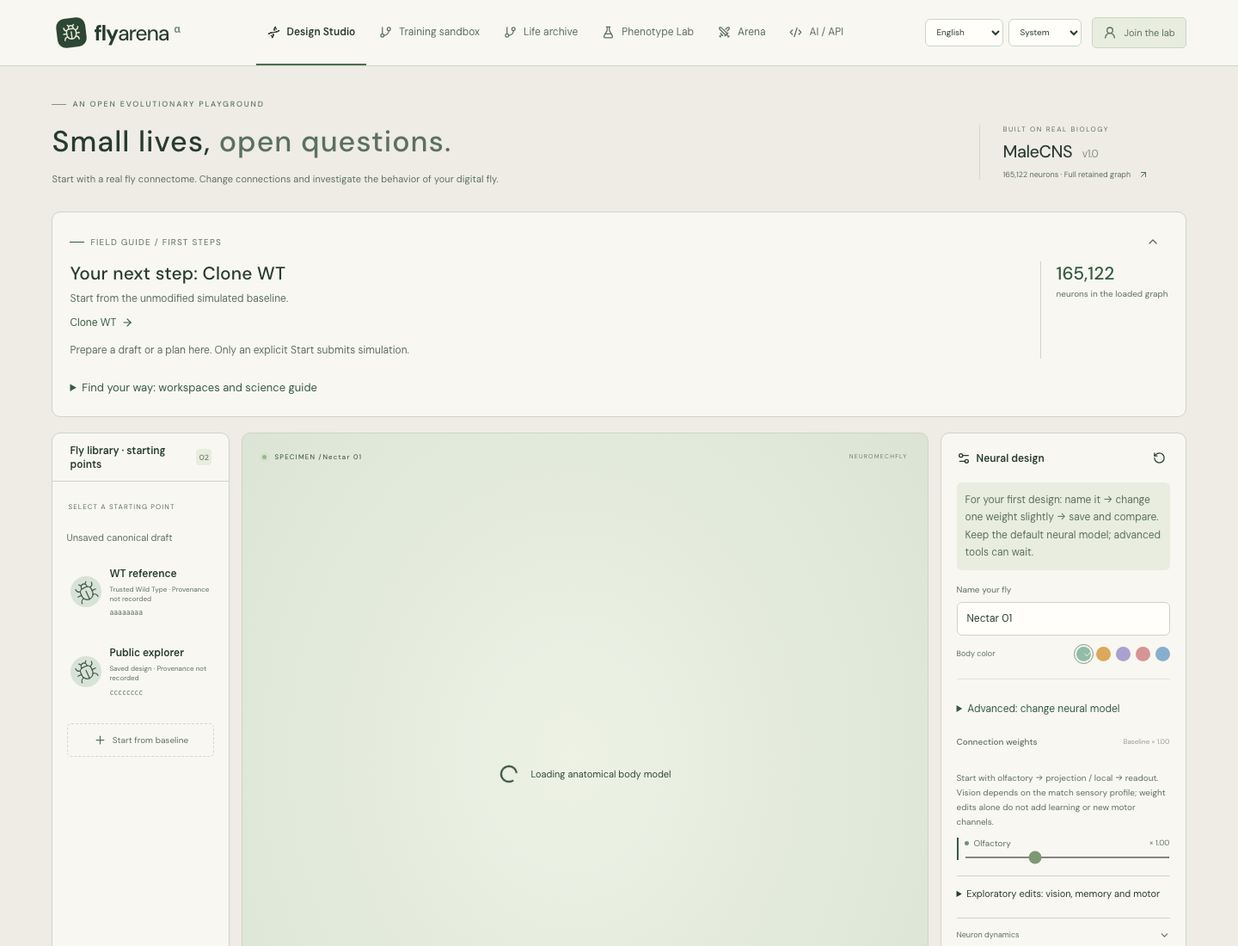
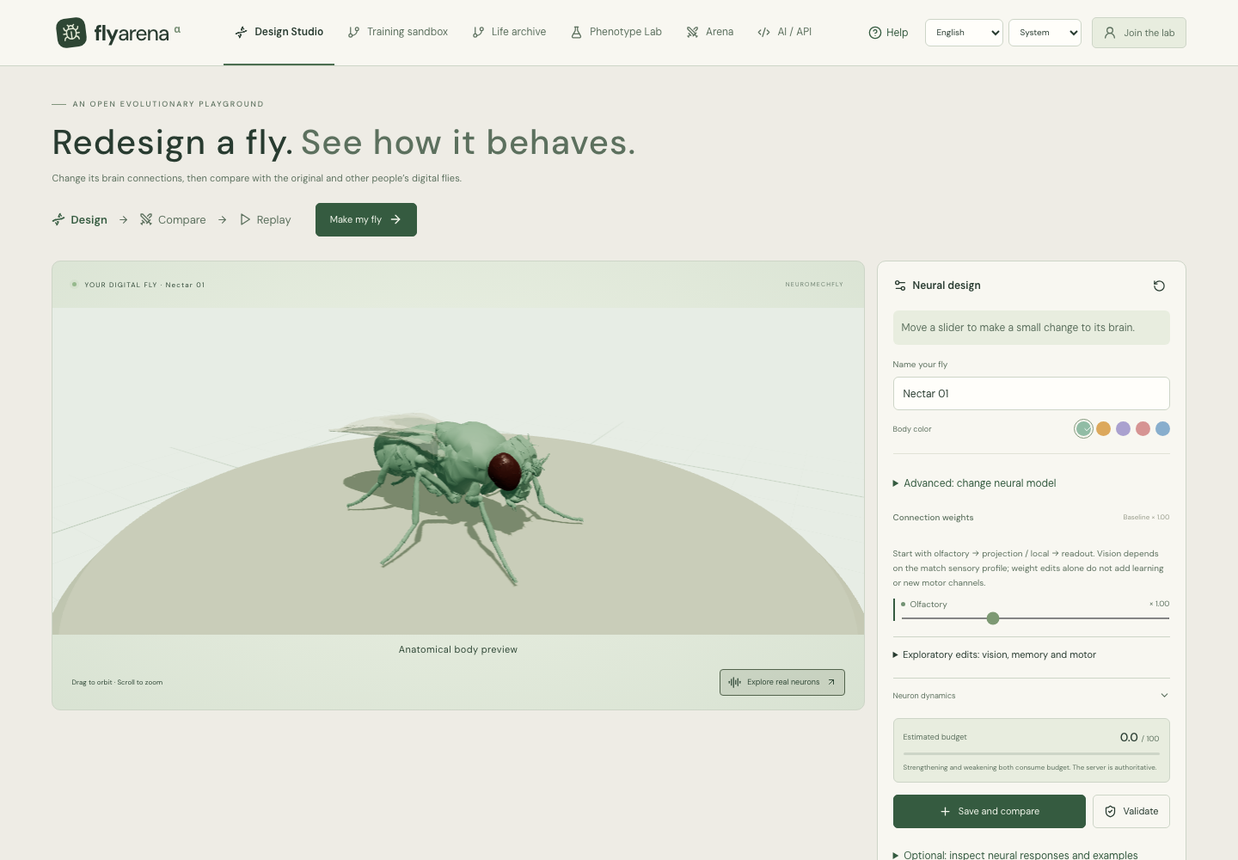
Lead with the fly and move the full guide into Help

diff --git a/web/src/App.tsx b/web/src/App.tsx
@@ -8,6 +8,8 @@ import {BrainModelPicker} from './features/design/BrainModelPicker'
 import {LifeLedger} from './features/life/LifeLedger'
 import {guideSubject,baselineComparison,hasRecordedEvolution,useGuideEvidence} from './features/guide/nextAction'
 import {PlaygroundGuide} from './features/guide/PlaygroundGuide'
+import {GuideHelpDialog} from './features/guide/GuideHelpDialog'
+import './features/design/designLanding.css'
 import {matchingWildType} from './features/arena/wildtype'
 import {TrainingSandbox} from './features/training/TrainingSandbox'
 import {SavedFlyCard} from './features/design/SavedFlyCard'
@@ -17,7 +19,7 @@ import {ArenaFeature} from './features/arena/ArenaFeature'
 import {useReplay} from './features/arena/useReplay'
 import {selectReplayFrames} from './features/arena/replayFrames'
 import {useCallback,useEffect,useMemo,useRef,useState} from 'react'
-import {ArrowDownToLine,ArrowRight,ArrowUpRight,AudioLines,Beaker,Bug,Check,ChevronDown,Code2,Copy,Dna,ExternalLink,FlaskConical,GitBranch,Leaf,Loader2,Pause,Play,Plus,RotateCcw,Settings2,ShieldCheck,Swords,Terminal,Trophy,UserRound,X} from 'lucide-react'
+import {ArrowDownToLine,ArrowRight,ArrowUpRight,AudioLines,Beaker,Bug,Check,ChevronDown,Code2,Copy,CircleHelp,Dna,ExternalLink,FlaskConical,GitBranch,Leaf,Loader2,Pause,Play,Plus,RotateCcw,Settings2,ShieldCheck,Swords,Terminal,Trophy,UserRound,X} from 'lucide-react'
 import {api,setCsrfToken,newRequestKey} from './api'
 import {PhenotypeLab} from './features/phenotype/PhenotypeLab'
 import {AdvancedInterventions} from './features/design/AdvancedInterventions'
@@ -77,6 +79,8 @@ export default function App(){
   const [comparisonFocus,setComparisonFocus]=useState(0)
   const [comparisonOpen,setComparisonOpen]=useState(true)
   const [hasDraft,setHasDraft]=useState(false)
+  const [guideOpen,setGuideOpen]=useState(false)
+  const [editorFocus,setEditorFocus]=useState(0)
   const [identityName,setIdentityName]=useState('')
   const [invite,setInvite]=useState('')
   const [showToken,setShowToken]=useState(false)
@@ -202,13 +206,15 @@ export default function App(){
   async function validate(){if(!identity){setLogin(true);return}await action('validate',async()=>{const r=await api<Report>('/flies/validate',{method:'POST',body:JSON.stringify(spec)},identity);setReport(r);setToast(t("权重、图谱版本和变异预算验证通过。"))})}
   async function previewNeural(){if(!identity){setLogin(true);return}await action('neural-preview',async()=>{const result=await api<NeuralPreview>('/flies/preview',{method:'POST',body:JSON.stringify(spec)},identity);setNeuralPreview({data:result,specKey:JSON.stringify(spec)});setToast(t('Neural preview recorded from the retained graph.'))})}
   async function previewExample(){await action('neural-example',async()=>{const response=await fetch('/examples/neural-preview-nectar-v3.json');if(!response.ok)throw Error(locale==='zh-CN'?'刺激样本暂不可用':'Stimulus example is unavailable');const data:NeuralPreview=await response.json();if(!['neural-design-preview/v2','neural-design-preview/v3'].includes(data.schema)||!data.example)throw Error('Invalid stimulus example');setNeuralPreview({data,specKey:null})})}
-  function openSavedComparison(){setComparisonOpen(true);setTab('design');setComparisonFocus(value=>value+1)}
+  function openSavedComparison(){setGuideOpen(false);setComparisonOpen(true);setTab('design');setComparisonFocus(value=>value+1)}
   useEffect(()=>{
     if(!comparisonFocus||tab!=='design')return
     const panel=document.getElementById('comparison-content')
     panel?.scrollIntoView?.({block:'start',behavior:'smooth'});panel?.focus({preventScroll:true})
   },[comparisonFocus,tab])
-  function openEditor(){setComparisonOpen(false);setHasDraft(true);document.getElementById('fly-name')?.scrollIntoView?.({block:'center',behavior:'smooth'});document.getElementById('fly-name')?.focus({preventScroll:true})}
+  function openEditor(){setGuideOpen(false);setComparisonOpen(false);setHasDraft(true);setTab('design');setEditorFocus(value=>value+1)}
+  function startDesign(){const wt=matchingWildType(flies);if(wt)clone(wt);openEditor()}
+  useEffect(()=>{if(!editorFocus||tab!=='design')return;const field=document.getElementById('fly-name');field?.scrollIntoView?.({block:'center',behavior:'smooth'});field?.focus({preventScroll:true})},[editorFocus,tab])
   async function publish(){
     if(!identity){pendingIntent.current='save';setLogin(true);return}
     await action('publish',async()=>{
@@ -268,11 +274,11 @@ export default function App(){
     <header className="header">
       <button className="brand" onClick={()=>setTab('design')} aria-label={t("Fly Arena 首页")}><span className="brand-mark"><Bug size={22} strokeWidth={1.6}/></span><span>fly<span className="brand-light">arena</span><sup>α</sup></span></button>
       <nav>{([['design',t("设计工坊"),Dna],['train',t('Training sandbox'),GitBranch],['life',t('Life archive'),GitBranch],['lab',t("表型实验室"),FlaskConical],['arena',t("竞技场"),Swords],['code','AI / API',Code2]] as const).map(([id,label,Icon])=><button className={tab===id?'active':''} key={id} onClick={()=>setTab(id)}><Icon size={15}/>{label}</button>)}</nav>
-      <div className="header-right"><Preferences/><span className="season-badge"><span className="live-dot"/>{t("GENESIS SEASON")}</span><button className="identity-button" onClick={()=>identity?setShowToken(true):setLogin(true)}><UserRound size={16}/><span>{identity?.name||t("加入实验")}</span></button></div>
+      <div className="header-right"><button className="guide-help-trigger" onClick={()=>setGuideOpen(true)} aria-haspopup="dialog"><CircleHelp size={16}/>{locale==='zh-CN'?'帮助':'Help'}</button><Preferences/><span className="season-badge"><span className="live-dot"/>{t("GENESIS SEASON")}</span><button className="identity-button" onClick={()=>identity?setShowToken(true):setLogin(true)}><UserRound size={16}/><span>{identity?.name||t("加入实验")}</span></button></div>
     </header>
 
     <main>
-      <div className="page-heading"><div><div className="eyebrow"><span/> {t("AN OPEN EVOLUTIONARY PLAYGROUND")}</div><h1>{tab==='design'?<>{t("小小生命，")}<em>{t("无限可能。")}</em></>:tab==='life'?<>{t('Every life,')}<em>{t('a recorded journey.')}</em></>:tab==='train'?<>{t('Train a fly,')}<em>{t('grow a lineage.')}</em></>:tab==='arena'?<>{t("让你的设计，")}<em>{t("接受挑战。")}</em></>:tab==='lab'?<>{t("每次进化，")}<em>{t("都有迹可循。")}</em></>:<>{t("你的 AI，")}<em>{t("也是设计师。")}</em></>}</h1><p>{tab==='design'?t("从真实果蝇神经图谱出发。改变连接，塑造本能，创造属于你的数字果蝇。"):tab==='life'?t('Explore individuals, experiences and choices. Continue evolution from recorded evidence.'):tab==='train'?t('Choose a strategy, set a budget, and explore generations through actual competition.'):tab==='arena'?t("同一身体，同一世界。让不同的神经设计，在食物与空间的竞争中相遇。"):tab==='lab'?t("比较设计、回看行为、追踪神经活动。让下一次修改有据可依。"):t("一份 FlySpec，一套开放接口。让任何 AI 设计、评测并提交自己的果蝇。")}</p></div><div className="science-stamp"><span>{t("BUILT ON REAL BIOLOGY")}</span><strong>MaleCNS <i>v1.0</i></strong><small>{season?num(season.connectome.neuron_count):'—'} {t("neurons · Full retained graph")}<ArrowUpRight size={12}/></small></div></div>
+      <div className={'page-heading'+(tab==='design'?' design-heading':'')}><div><div className="eyebrow"><span/> {t("AN OPEN EVOLUTIONARY PLAYGROUND")}</div><h1>{tab==='design'?<>{locale==='zh-CN'?'改造一只果蝇，':'Redesign a fly.'}<em>{locale==='zh-CN'?'看看它怎么行动。':'See how it behaves.'}</em></>:tab==='life'?<>{t('Every life,')}<em>{t('a recorded journey.')}</em></>:tab==='train'?<>{t('Train a fly,')}<em>{t('grow a lineage.')}</em></>:tab==='arena'?<>{t("让你的设计，")}<em>{t("接受挑战。")}</em></>:tab==='lab'?<>{t("每次进化，")}<em>{t("都有迹可循。")}</em></>:<>{t("你的 AI，")}<em>{t("也是设计师。")}</em></>}</h1><p>{tab==='design'?(locale==='zh-CN'?'修改它的大脑连接，再与原版和其他人的数字果蝇比一比。':'Change its brain connections, then compare with the original and other people’s digital flies.'):tab==='life'?t('Explore individuals, experiences and choices. Continue evolution from recorded evidence.'):tab==='train'?t('Choose a strategy, set a budget, and explore generations through actual competition.'):tab==='arena'?t("同一身体，同一世界。让不同的神经设计，在食物与空间的竞争中相遇。"):tab==='lab'?t("比较设计、回看行为、追踪神经活动。让下一次修改有据可依。"):t("一份 FlySpec，一套开放接口。让任何 AI 设计、评测并提交自己的果蝇。")}</p>{tab==='design'&&<div className="design-heading-actions"><ol className="design-journey" aria-label={locale==='zh-CN'?'探索流程':'Your journey'}><li data-current={!guideFly||hasDraft||undefined}><Dna size={16}/>{locale==='zh-CN'?'改造':'Design'}</li><li><ArrowRight size={13}/></li><li data-current={!!guideFly&&!hasDraft||undefined}><Swords size={16}/>{locale==='zh-CN'?'对比':'Compare'}</li><li><ArrowRight size={13}/></li><li><Play size={16}/>{locale==='zh-CN'?'看回放':'Replay'}</li></ol>{(!guideFly||hasDraft)&&<button className="primary design-start-button" onClick={hasDraft?openEditor:startDesign} disabled={!season}>{hasDraft?(locale==='zh-CN'?'继续改造':'Continue designing'):(locale==='zh-CN'?'制作我的果蝇':'Make my fly')}<ArrowRight size={16}/></button>}</div>}</div><div className="science-stamp"><span>{t("BUILT ON REAL BIOLOGY")}</span><strong>MaleCNS <i>v1.0</i></strong><small>{season?num(season.connectome.neuron_count):'—'} {t("neurons · Full retained graph")}<ArrowUpRight size={12}/></small></div></div>
 
       {error&&<div className="error-banner" role="alert"><span>{error}</span><button onClick={()=>setError('')} aria-label={t("关闭错误")}><X size={16}/></button></div>}
 
@@ -280,21 +286,10 @@ export default function App(){
         {replayOrigin&&<section className="panel replay-design-origin" aria-label={locale==='zh-CN'?'回放设计来源':'Replay design source'}><div><strong>{locale==='zh-CN'?'从这份参赛大脑继续设计：':'Designing from this recorded brain: '}{replayOrigin.name}</strong><p>{locale==='zh-CN'?'当前是未保存的后代草稿。修改并保存后，先与 WT 和其他设计对比。':'This is an unsaved child draft. Edit and save it, then compare with WT and other designs.'}</p></div><button className="text-link" aria-label={locale==='zh-CN'?'回看亲代这场表现':'Revisit the parent’s match'} onClick={()=>setFocused(replayOrigin.matchId)}>{locale==='zh-CN'?'回看亲代这场表现':'Revisit the parent’s match'} →</button></section>}
 
         {guideFly&&identity&&<details id="saved-design-comparison" open={comparisonOpen} onToggle={e=>setComparisonOpen(e.currentTarget.open)}><summary>{locale==='zh-CN'?'已保存版本的对比与结果':'Saved design: comparison and results'} · {guideFly.name}</summary><div tabIndex={-1} id="comparison-content"><FirstComparison key={identity.id+guideFly.id} subject={guideFly} flies={availableFlies} maps={maps} season={season} identity={identity} onEdit={openEditor} onArena={(series,match)=>{setSelected(guideFly.id);navigate('arena','',match,series,'');setPlay(false)}}/></div></details>}
-        <PlaygroundGuide hasDraft={hasDraft} referenceOnly={!!guideFly&&comparisonOpen} neuronCount={season?.connectome.neuron_count}
-          canCloneWT={!!matchingWildType(flies)} hasSavedDesign={!!guideFly} subjectName={hasDraft?name:guideFly?.name} canCompare={!!guideFly} hasCompared={!!baselineComparison(availableFlies,guideFly,guideEvidence.record)} hasEvolved={hasRecordedEvolution(guideEvidence.record,guideFly)} evidenceError={guideEvidence.error}
-          onCompare={openSavedComparison}
-          onDesign={openEditor}
-          onCloneWT={()=>{const wt=matchingWildType(flies);if(wt){clone(wt);setToast(locale==='zh-CN'?'已复制 WT 为草稿。命名、做一个小改动，再保存并对比。':'WT copied into a draft. Name it, make one small change, then save and compare.');document.getElementById('fly-name')?.focus()}}}
-          onTrain={()=>{if(guideFly)setSelected(guideFly.id);navigate('train',experimentId,'','')}} onArena={()=>{if(guideFly)setSelected(guideFly.id);setMode('contest');navigate('arena',experimentId,'','');setPlay(false)}}
-          onAI={()=>{setJsonEditor(JSON.stringify(spec,null,2));setTab('code')}}/>
-        <div className="design-workspace">
-          <aside className="collection panel"><div className="panel-heading"><span>{locale==='zh-CN'?'果蝇库 · 选择起点':'Fly library · starting points'}</span><span className="count">{flies.length.toString().padStart(2,'0')}</span></div><div className="tiny-label">{t("SELECT A STARTING POINT")}</div><p className="draft-status">{parentId?t('Unsaved draft from parent')+': '+parentId:t('Unsaved canonical draft')}</p>
-            <div className="fly-list">{flies.slice(0,12).map(f=><SavedFlyCard key={f.id} fly={f} viewer={identity?.id} selected={parentId===f.id} onClone={clone}/>)}</div>
-            <button className="new-fly" onClick={()=>{setHasDraft(true);setComparisonOpen(false);setReplayOrigin(null);setScales(defaultScales());setTau(1);setThreshold(0);setName('Untitled 01');setSelected('');setParentId(null);setBaseSpec({});setInterventions([]);setEdgeDeltas([]);setReport(null);setToast(t("已恢复基线参数，为新设计取个名字吧。"))}}><Plus size={15}/>{t("从原型开始设计")}</button>
-            <div className="collection-footer"><GitBranch size={18}/><strong>{t("进化，有迹可循")}</strong><p>{t("每个设计都保留图谱来源、父代和不可变的权重版本。")}</p><button onClick={()=>setTab('train')}>{t("Training sandbox")}<ArrowRight size={14}/></button></div>
-          </aside>
+        <div className={'design-workspace design-workspace--focused'+(!hasDraft?' design-workspace--preview':'')}>
 
-          <section className="specimen-panel"><div className="specimen-top"><span><span className="live-dot"/> {t("SPECIMEN /")}{name||t('NEW DESIGN')}</span><span>NEUROMECHFLY</span></div>
+
+          <section className="specimen-panel"><div className="specimen-top"><span><span className="live-dot"/> {locale==='zh-CN'?'你的数字果蝇':'YOUR DIGITAL FLY'} · {name||t('NEW DESIGN')}</span><span>NEUROMECHFLY</span></div>
             <div className="specimen-canvas">{preview?<ArenaCanvas preview={preview} color={color} design/>:<div className="canvas-loading"><Loader2 className="spin"/><span>{t("正在载入真实身体模型")}</span></div>}</div>
             <div className="specimen-label"><span className="italic-label">Drosophila melanogaster</span><small>{t("黑腹果蝇 · 解剖模型预览")}</small></div>
             <div className="specimen-controls"><span>{t("拖动旋转 · 滚轮缩放")}</span><button onClick={()=>{setInspectOpen(true);api<typeof inspect>('/connectome/neurons?circuit='+inspectCircuit).then(setInspect).catch(e=>setError(e.message))}}><AudioLines size={15}/>{t("探索真实神经元")}<ArrowUpRight size={12}/></button></div>
@@ -302,11 +297,11 @@ export default function App(){
           </section>
 
           <aside className="editor panel" onChange={()=>setHasDraft(true)}><div className="panel-heading"><span><Settings2 size={16}/> {t("神经设计")}</span><button className="icon-button" title={t("重置参数")} onClick={()=>{setScales(defaultScales());setTau(1);setThreshold(0);setInterventions([]);setEdgeDeltas([]);setReport(null)}}><RotateCcw size={15}/></button></div>
-            <p className="editor-first-step">{locale==='zh-CN'?'第一次只需：命名 → 小幅修改一个权重 → 保存并对比。先保留默认神经模型；下方高级工具可稍后探索。':'For your first design: name it → change one weight slightly → save and compare. Keep the default neural model; advanced tools can wait.'}</p>
+            <p className="editor-first-step">{locale==='zh-CN'?'拖动一个滑块，给大脑做个小改动。':'Move a slider to make a small change to its brain.'}</p>
             <label className="field-label" htmlFor="fly-name">{t("给你的果蝇命名")}</label><input id="fly-name" value={name} onChange={e=>setName(e.target.value)} maxLength={64}/>
-            <div className="color-row"><span>{t("个体标记")}</span><div>{Object.entries(colors).map(([key,value])=><button key={key} title={t(key)} aria-label={t("选择 ")+t(key)+t(" 配色")} className={color===key?'chosen':''} style={{background:value}} onClick={()=>setColor(key)}>{color===key&&<Check size={11}/>}</button>)}</div></div>
+            <div className="color-row"><span>{t("个体标记")}</span><div>{Object.entries(colors).map(([key,value])=><button key={key} title={t(key)} aria-label={t("选择 ")+t(key)+t(" 配色")} className={color===key?'chosen':''} style={{background:value}} onClick={()=>{setHasDraft(true);setColor(key)}}>{color===key&&<Check size={11}/>}</button>)}</div></div>
             <div className="section-divider"/>
-            <details className="design-extra"><summary>{locale==='zh-CN'?'高级：更换神经模型':'Advanced: change neural model'}</summary><BrainModelPicker value={spec.model_profile} onChange={model=>{setBaseSpec(old=>({...old,model_profile:model}));setReport(null)}}/></details>
+            <details className="design-extra"><summary>{locale==='zh-CN'?'高级：更换神经模型':'Advanced: change neural model'}</summary><BrainModelPicker value={spec.model_profile} onChange={model=>{setHasDraft(true);setBaseSpec(old=>({...old,model_profile:model}));setReport(null)}}/></details>
             <div className="controls-caption"><strong>{t("连接权重")}</strong><span>{t("原型 × 1.00")}</span></div>
             <p className="capability-note">{t('Start with olfactory → projection / local → readout. Vision depends on the match sensory profile; weight edits alone do not add learning or new motor channels.')}</p><div className="sliders">{season?.connectome.circuits.filter(c=>!['visual','memory','motor'].includes(c.id)).map(c=><label key={c.id} className={'slider-control '+(['visual','memory','motor'].includes(c.id)?'exploratory':'primary-control')}><span><span className="circuit-dot" style={{background:c.color}}/>{t(c.label)}<small>× {scales[c.id]?.toFixed(2)}</small></span><input aria-label={t(c.label)+' '+t('Weight')} type="range" min="0.5" max="2" step=".01" value={scales[c.id]??1} onChange={e=>{setScales(s=>({...s,[c.id]:Number(e.target.value)}));setReport(null)}}/></label>)}</div><details className="exploratory-controls"><summary>{t('Exploratory edits: vision, memory and motor')}</summary><p>{t('Experimental visual input requires a compatible sensory profile. Memory and motor edits remain exploratory.')}</p><div className="sliders">{season?.connectome.circuits.filter(c=>['visual','memory','motor'].includes(c.id)).map(c=><label key={c.id} className={'slider-control '+(['visual','memory','motor'].includes(c.id)?'exploratory':'primary-control')}><span><span className="circuit-dot" style={{background:c.color}}/>{t(c.label)}<small>× {scales[c.id]?.toFixed(2)}</small></span><input aria-label={t(c.label)+' '+t('Weight')} type="range" min="0.5" max="2" step=".01" value={scales[c.id]??1} onChange={e=>{setScales(s=>({...s,[c.id]:Number(e.target.value)}));setReport(null)}}/></label>)}</div></details>
             <details className="intrinsic"><summary>{t("神经元动力学")}<ChevronDown size={13}/></summary><label>{t("膜时间常数")}<b>× {tau.toFixed(2)}</b><input aria-label={t("膜时间常数")} type="range" min=".8" max="1.2" step=".01" value={tau} onChange={e=>{setTau(+e.target.value);setReport(null)}}/></label><label>{t("发放阈值变化")}<b>{threshold>0?'+':''}{threshold.toFixed(1)} {t("mV")}</b><input aria-label={t("发放阈值")} type="range" min="-1" max="1" step=".1" value={threshold} onChange={e=>{setThreshold(+e.target.value);setReport(null)}}/></label></details>
@@ -314,6 +309,13 @@ export default function App(){
             <div className="editor-actions"><button className="primary" onClick={()=>publish()} disabled={!!busy||!season}>{busy==='publish'?<Loader2 className="spin" size={15}/>:<Plus size={15}/>}{locale==='zh-CN'?'保存并对比':'Save and compare'}</button><button className="secondary" onClick={validate} disabled={!!busy}>{busy==='validate'?<Loader2 className="spin" size={15}/>:<ShieldCheck size={15}/>}{t("验证")}</button></div><details className="design-extra"><summary>{locale==='zh-CN'?'可选：检查神经响应与刺激样本':'Optional: inspect neural responses and examples'}</summary><div className="editor-actions"><button className="secondary" onClick={previewNeural} disabled={!!busy||!season}>{busy==='neural-preview'?<Loader2 className="spin" size={15}/>:<AudioLines size={15}/>}{t('Preview neural response')}</button><button className="secondary" onClick={previewExample} disabled={!!busy}>{busy==='neural-example'?<Loader2 className="spin" size={15}/>:<Beaker size={15}/>} {locale==='zh-CN'?'查看真实刺激样本':'View recorded stimulus example'}</button></div></details>
           </aside>
         </div>
+        <details className="design-library"><summary>{locale==='zh-CN'?'从其他果蝇开始改造':'Start from another fly'}<span>{flies.length} {locale==='zh-CN'?'个设计':'designs'}</span></summary>
+          <aside className="collection panel"><div className="panel-heading"><span>{locale==='zh-CN'?'果蝇库 · 选择起点':'Fly library · starting points'}</span><span className="count">{flies.length.toString().padStart(2,'0')}</span></div><div className="tiny-label">{t("SELECT A STARTING POINT")}</div><p className="draft-status">{parentId?t('Unsaved draft from parent')+': '+parentId:t('Unsaved canonical draft')}</p>
+            <div className="fly-list">{flies.slice(0,12).map(f=><SavedFlyCard key={f.id} fly={f} viewer={identity?.id} selected={parentId===f.id} onClone={clone}/>)}</div>
+            <button className="new-fly" onClick={()=>{setHasDraft(true);setComparisonOpen(false);setReplayOrigin(null);setScales(defaultScales());setTau(1);setThreshold(0);setName('Untitled 01');setSelected('');setParentId(null);setBaseSpec({});setInterventions([]);setEdgeDeltas([]);setReport(null);setToast(t("已恢复基线参数，为新设计取个名字吧。"))}}><Plus size={15}/>{t("从原型开始设计")}</button>
+            <div className="collection-footer"><GitBranch size={18}/><strong>{t("进化，有迹可循")}</strong><p>{t("每个设计都保留图谱来源、父代和不可变的权重版本。")}</p><button onClick={()=>setTab('train')}>{t("Training sandbox")}<ArrowRight size={14}/></button></div>
+          </aside>
+        </details>
         {neuralPreview&&<NeuralPreviewPanel record={neuralPreview} stale={neuralPreview.specKey!==JSON.stringify(spec)} circuits={season?.connectome.circuits||[]} onImport={loadSpec} onReplay={id=>{setFocused(id);setTab('arena')}}/>}
         <details className="design-extra design-advanced"><summary>{locale==='zh-CN'?'高级设计：定向干预与连接编辑':'Advanced design: targeted interventions and connections'}</summary><AdvancedInterventions value={interventions} onChange={v=>{setInterventions(v);setReport(null)}} report={report} spec={spec} onValidate={validate} busy={!!busy}/></details>
         <button className="text-link" onClick={()=>{setFocused('');setPlay(false)}}>{t('guide.arenaLink')}<ArrowUpRight size={16}/></button>
@@ -331,6 +333,15 @@ export default function App(){
 
       <p className="small-print" style={{marginTop:24}}>{t("Research playground: real connectome structure with modeled neural dynamics, sensory encoding and gait control. Choose an optimizer between generations; experimental vision, taste and touch depend on the selected setup. Within-match learning is not enabled.")}</p><footer><span><Bug size={14}/> FLY ARENA <i>by The Omega Institute</i></span><span>{t("真实图谱 · 可变神经网络 · 开放竞技")}</span><a href="https://male-cns.janelia.org/" target="_blank" rel="noreferrer">{t("MaleCNS 数据来源")}<ArrowUpRight size={12}/></a></footer>
     </main>
+    {guideOpen&&<GuideHelpDialog onClose={()=>setGuideOpen(false)}>
+        <PlaygroundGuide hasDraft={hasDraft} neuronCount={season?.connectome.neuron_count}
+          canCloneWT={!!matchingWildType(flies)} hasSavedDesign={!!guideFly} subjectName={hasDraft?name:guideFly?.name} canCompare={!!guideFly} hasCompared={!!baselineComparison(availableFlies,guideFly,guideEvidence.record)} hasEvolved={hasRecordedEvolution(guideEvidence.record,guideFly)} evidenceError={guideEvidence.error}
+          onCompare={openSavedComparison}
+          onDesign={openEditor}
+          onCloneWT={startDesign}
+          onTrain={()=>{setGuideOpen(false);if(guideFly)setSelected(guideFly.id);navigate('train',experimentId,'','')}} onArena={()=>{setGuideOpen(false);if(guideFly)setSelected(guideFly.id);setMode('contest');navigate('arena',experimentId,'','');setPlay(false)}}
+          onAI={()=>{setGuideOpen(false);setJsonEditor(JSON.stringify(spec,null,2));setTab('code')}}/>
+    </GuideHelpDialog>}
     {toast&&<div className="toast" role="status"><Check size={17}/>{toast}</div>}
       <AuthDialogs login={login} setLogin={setLogin} authSettings={authSettings} error={error} setError={setError} loginNyxID={loginNyxID} identityName={identityName} setIdentityName={setIdentityName} season={season} invite={invite} setInvite={setInvite} busy={busy} register={register} setIdentity={setIdentity} showToken={showToken} setShowToken={setShowToken} identity={identity} freshToken={freshToken} setFreshToken={setFreshToken} setToast={setToast} createAgentToken={createAgentToken} agentTokens={agentTokens} setAgentTokens={setAgentTokens} action={action} logout={logout}/>
 

diff --git a/web/src/features/design/designLanding.css b/web/src/features/design/designLanding.css
@@ -1,0 +1,42 @@
+/* Lead with the digital fly and its controls; the reference manual has its own dialog. */
+.design-heading .science-stamp{display:none}
+.design-heading{margin-bottom:22px}
+.design-heading h1{font-size:clamp(26px,3vw,40px);line-height:1.3}
+.design-heading h1 em{margin-left:.2em}
+.design-heading-actions{display:flex;flex-wrap:wrap;align-items:center;gap:16px 28px;margin-top:18px}
+.design-journey{display:flex;flex-wrap:wrap;align-items:center;gap:12px;list-style:none;padding:0;margin:0;font-size:13px;color:var(--text-muted)}
+.design-journey li{display:flex;align-items:center;gap:6px}.design-journey [data-current=true]{color:var(--accent);font-weight:600}
+.design-start-button{min-height:44px;white-space:normal;font-size:13px}
+.design-workspace.design-workspace--focused{grid-template-columns:minmax(0,1fr) minmax(300px,360px);min-height:560px;align-items:start}
+.design-workspace--focused>.specimen-panel{grid-column:1;grid-row:1;min-height:0}
+.design-workspace--focused>.editor{grid-column:2;grid-row:1}
+.design-library{margin-top:18px;border:1px solid var(--border);border-radius:8px;background:var(--surface);overflow:hidden}
+.design-library>summary{cursor:pointer;padding:16px 18px;font-size:13px;color:var(--accent)}
+.design-library>summary>span{float:right;font-size:12px;color:var(--text-muted)}
+.design-library>.collection{border:0;border-top:1px solid var(--border);border-radius:0}
+.design-library .fly-list{display:grid;grid-template-columns:repeat(auto-fit,minmax(180px,1fr));gap:8px;max-height:360px;overflow:auto}
+.design-library .collection-footer{display:none}.design-library .new-fly{align-self:start}.design-library .draft-status{overflow-wrap:anywhere}
+.guide-help-trigger{display:inline-flex;align-items:center;gap:5px;padding:8px;min-height:40px;border-radius:5px;color:var(--accent);font-size:12px;white-space:nowrap}
+.guide-help-trigger:hover{background:var(--surface-soft)}
+@media(max-width:700px){
+ .design-heading{margin-bottom:16px}.design-heading h1 em{display:block;margin-left:0}.design-heading p{font-size:12px}
+ .design-heading-actions{gap:12px;margin-top:14px}.design-journey{font-size:12px;gap:8px}.design-start-button{margin-left:auto}
+ .design-workspace.design-workspace--focused{grid-template-columns:minmax(0,1fr);min-height:0}
+ .design-workspace--focused>.editor{grid-column:1;grid-row:1}
+ .design-workspace--focused>.specimen-panel{grid-column:1;grid-row:2}
+ .design-workspace--preview>.specimen-panel{grid-row:1}
+ .design-workspace--preview>.editor{grid-row:2}
+ .design-workspace--focused .specimen-top{font-size:9px}
+ .design-library .fly-list{display:grid;grid-template-columns:minmax(0,1fr)}
+ .design-library .fly-card{width:100%}.design-library .collection>.tiny-label{display:none}.design-library .new-fly{display:flex}
+ .header-right{gap:6px}.guide-help-trigger{font-size:11px;padding:6px}
+}
+
+/* Keep the preview, caption and controls in flow so phone captions cannot cover the fly. */
+.design-workspace--focused .specimen-canvas{position:relative;inset:auto;height:380px;min-height:0;flex:none}
+.design-workspace--focused .specimen-label{margin-top:0;padding:10px 16px 16px}
+.design-workspace--focused .italic-label{display:none}
+.design-workspace--focused .specimen-label small{margin:0;font-size:11px;letter-spacing:.4px}
+.design-workspace--focused .specimen-stats{display:none}
+.design-workspace--focused .specimen-controls{padding-bottom:16px;min-width:0;flex-wrap:wrap}
+@media(max-width:700px){.design-workspace--focused .specimen-canvas{height:250px}.design-workspace--focused .specimen-top{padding:14px}.design-workspace--focused .specimen-controls{gap:8px}.design-workspace--focused .specimen-controls>span{font-size:10px}}

diff --git a/web/src/features/guide/GuideHelpDialog.tsx b/web/src/features/guide/GuideHelpDialog.tsx
@@ -1,0 +1,21 @@
+import {useEffect,useRef,type ReactNode} from 'react'
+import {X} from 'lucide-react'
+import {useI18n} from '../../shared/i18n'
+import './guide.css'
+
+/** Keep the reference manual outside the workspace; native dialog provides focus containment. */
+export function GuideHelpDialog({onClose,children}:{onClose:()=>void;children:ReactNode}){
+ const ref=useRef<HTMLDialogElement>(null)
+ const {locale}=useI18n(),zh=locale==='zh-CN'
+ useEffect(()=>{
+  const dialog=ref.current!,opener=document.activeElement as HTMLElement|null
+  if(dialog.showModal)dialog.showModal()
+  else dialog.setAttribute('open','')
+  dialog.querySelector<HTMLButtonElement>('button')?.focus()
+  return()=>{if(dialog.open)dialog.close?.();if(opener?.isConnected)opener.focus()}
+ },[])
+ return <dialog ref={ref} className="guide-help-dialog" aria-labelledby="guide-help-title" onCancel={event=>{event.preventDefault();onClose()}}>
+  <header className="guide-help-header"><h2 id="guide-help-title">{zh?'玩法与科学说明':'How to play and the science behind it'}</h2><button className="icon-button" onClick={onClose} aria-label={zh?'关闭帮助':'Close help'}><X size={20}/></button></header>
+  {children}
+ </dialog>
+}

diff --git a/web/src/features/guide/guide.css b/web/src/features/guide/guide.css
@@ -11,3 +11,9 @@
 
 .playground-guide__library>summary{cursor:pointer;font-size:13px;line-height:1.6;padding:6px 0;color:var(--accent)}
 .playground-guide__library>p{margin:10px 0 16px;max-width:850px}
+
+.guide-help-dialog{width:min(920px,calc(100vw - 32px));max-height:calc(100dvh - 32px);margin:auto;padding:20px;border:1px solid var(--border);border-radius:12px;color:var(--text);background:var(--surface);overflow:auto}
+.guide-help-dialog::backdrop{background:rgba(15,25,19,.6)}
+.guide-help-header{display:flex;align-items:center;justify-content:space-between;gap:16px;margin-bottom:16px}.guide-help-header h2{font-size:20px;line-height:1.4}.guide-help-header button{min-width:44px;min-height:44px;flex-shrink:0}
+.guide-help-dialog .playground-guide{margin:0;border:0;padding:0}
+@media(max-width:560px){.guide-help-dialog{padding:16px}.guide-help-header h2{font-size:18px}}

diff --git a/web/src/ArenaCanvas.tsx b/web/src/ArenaCanvas.tsx
@@ -101,7 +101,7 @@ function ArenaScene({preview,scene,frame,next,alpha=0,color='mint',design=false,
   const shown=frame||preview?.frame
   const world=scene||layout
   const framing=useMemo(()=>world&&layout&&!scene&&!preview?previewSceneFraming(arenaBounds(world),viewport.width/Math.max(1,viewport.height)):sceneFraming(world?arenaBounds(world):{min:[-5,-5,-.25],max:[5,5,2]},viewport.width/Math.max(1,viewport.height),design?33:40,!!world?.task),[world,layout,scene,preview,viewport.width,viewport.height,design])
-  const cameraPosition:[number,number,number]=design?[6,-9,5]:framing.position
+  const cameraPosition:[number,number,number]=design?[4,-6,3.5]:framing.position
   const cameraTarget:[number,number,number]=design?[0,0,.8]:framing.target
   const span=framing.span,shadowExtent=span*.8
   return <>

diff --git a/docs/FIRST_COMPARISON.md b/docs/FIRST_COMPARISON.md
@@ -14,11 +14,13 @@ Submission keys, immutable request bodies and acknowledged series IDs are stored
 
 ## Guidance and progressive disclosure
 
-The first-visit guide starts at Clone WT. Cloning or editing a draft changes the next step to editing and saving; a previous fly's recorded progress cannot mark a new draft as evaluated. The editor gives a short name → one small weight change → save sequence. On phones it appears before the body preview and library. Neural-model selection, stimulus/response tools and targeted interventions remain available in closed disclosures.
+The first screen shows the actual anatomical fly preview next to editable brain controls, a plain-language description of the activity and a Make my fly action. The compact visual sequence is Design → Compare → Replay. Making a fly copies the compatible WT when available, then focuses the editor without saving or starting simulation. Editing controls switches the action to Continue designing so subsequent clicks preserve the current draft.
 
-When the saved comparison is open, it supplies the primary next step. The general guide becomes a closed workspace/science reference so it cannot simultaneously direct a visitor toward training. Its workspace map explains the purpose of Arena, Training, Life archive, Phenotype Lab and AI / API; these are optional destinations rather than a mandatory tour.
+The long playground/science guide is outside the workspace in a native dialog opened by Help in the header. Closing it or pressing Escape returns focus to Help; choosing a destination inside it closes the dialog and moves to that workspace. The fly library is a separate closed disclosure below the workspace. Detailed neural-model, stimulus/response and intervention tools remain optional disclosures.
 
-Continue editing collapses the saved comparison and focuses the name field. The comparison stays mounted, preserving request identities and polling while the visitor edits. Reopening the disclosure shows the saved version's existing progress or results; unsaved edits do not alter its subject or submit work. The guide labels a draft with its draft name rather than a previous saved fly's name.
+On phones the first screen shows the fly and the start action. Starting a draft moves the editor before the preview and focuses the name field. The preview, caption and orbit/inspect controls are in normal document flow so they cannot overlap. The design-only camera is closer; replay cameras and scientific transforms are unchanged. Graph counts, engine labels and long biological names do not dominate the preview.
+
+Continue editing collapses the saved comparison and focuses the name field. The comparison stays mounted, preserving request identities and polling while the visitor edits. Reopening the disclosure shows the saved version's existing progress or results; unsaved edits do not alter its subject or submit work.
 
 ## Duration boundaries
 
@@ -31,4 +33,4 @@ Continue editing collapses the saved comparison and focuses the name field. The 
 
 The DOM journeys test the saved-design handoff, WT/public eligibility, 180-second request construction, complete versus partial evidence, correct slot aggregation and refresh/retry recovery. Backend tests create durable 180-second sandbox pairs, verify atomic and idempotent admission, recover records after reopening the database and check that sandbox results earn no leaderboard points.
 
-Real Chromium checks exercise the actual frontend at 1440 and 390 pixels in English and Chinese, including Clone WT → edit progression, collapsed advanced tools, phone editor placement, login-return handoff, saved-design identity, the two-second trial explanation, explicit compute start, editing while queued, reopening without resubmission, reload, results-before-Arena and horizontal overflow. These browser checks use synthetic API responses in an isolated context; their scores are UI fixtures, not new scientific results or a live NyxID-provider validation. No new 180-second physical study is claimed by these checks.
+Real Chromium checks exercise the actual frontend at 1440 and 390 pixels in English and Chinese, including the fly/start action in the first viewport, Help dialog and Escape/focus behavior, clone → edit progression, collapsed advanced tools, phone editor placement, login-return handoff, saved-design identity, the two-second trial explanation, explicit compute start, editing while queued, reopening without resubmission, reload, results-before-Arena and horizontal overflow. The landing-page preview uses the public server’s actual anatomical body/pose data. Other API responses, including authentication and competition, are synthetic in an isolated context; their scores are UI fixtures, not new scientific results or a live NyxID-provider validation. No new 180-second physical study is claimed by these checks.
